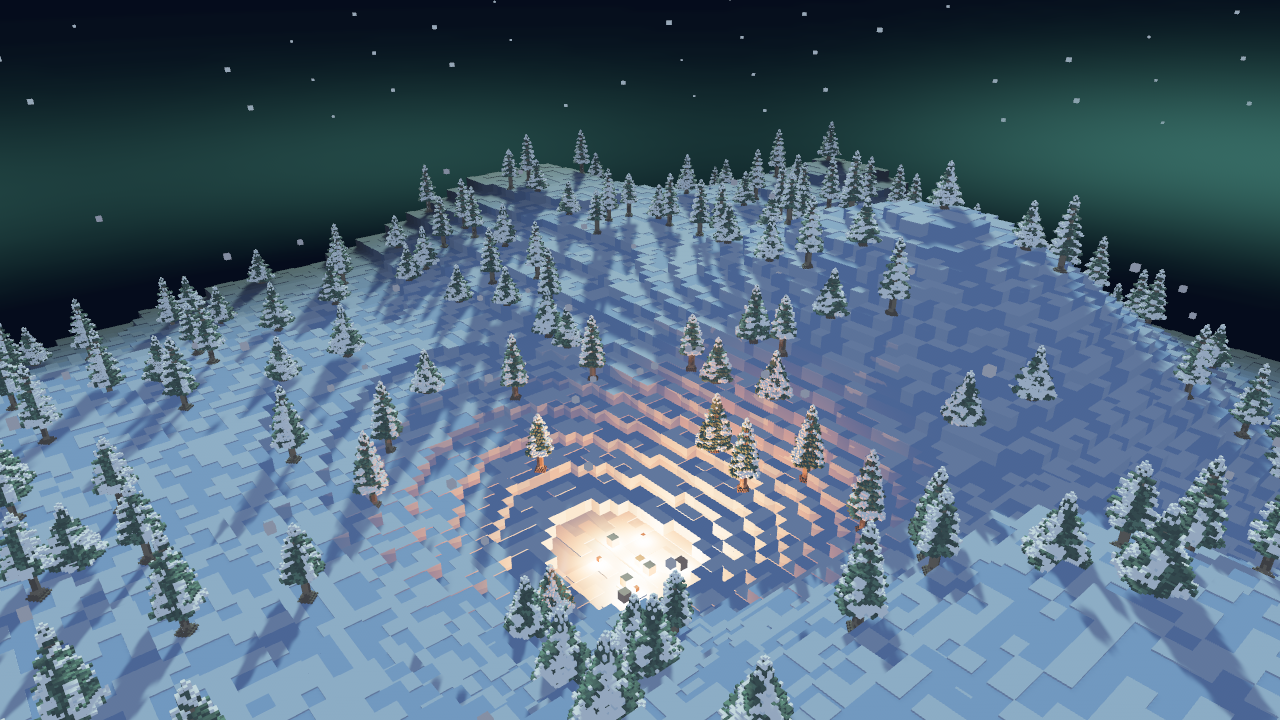
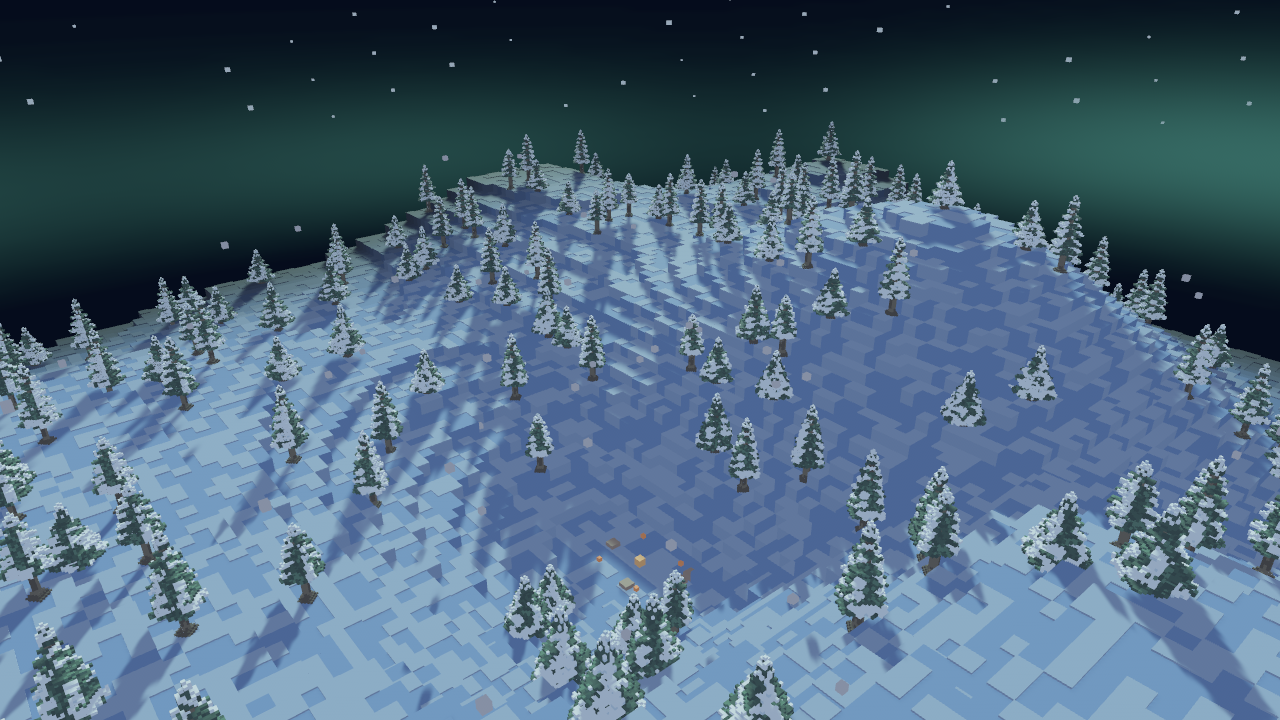
Retake AC2's controls against a paused world, and record the measurement
The committed controls were captured UNPAUSED with `--frames 160`. The dwarves
wander, so the same-build noise floor contained dwarf-sized differences and the
signal could never separate from it. Measured in a 12,000 px window at the camp
before this change:

    noise   mesh-a vs mesh-b     raw= 8,034   >=4= 5,806   >=16= 1,081
    change  control-a vs mesh-a  raw= 7,973   >=4= 6,105   >=16= 2,940

The change was SMALLER than the noise on the raw channel. AC2 asks for 10x
separation and it was structurally unreachable, because the dominant term on both
sides was a dwarf silhouette in a different place. The story had already corrected
this AC once -- from a whole-frame bar to a windowed one -- and that fixed the
wrong axis. The unfixed one was the moving subject.

RETAKEN, and the floor is now ZERO:

    window 612,570..642,610 (1,200 px), tight on one wire dwarf
      noise   cube-a vs cube-b     raw=   0   >=4=   0   >=16=   0
      noise   mesh-a vs mesh-b     raw=   0   >=4=   0   >=16=   0
      change  cube-a vs mesh-a     raw= 411   >=4= 313   >=16= 192
      change  cube-b vs mesh-b     raw= 411   >=4= 313   >=16= 192

One binary, two runs, byte-identical pixels in the window. Both change rows are
identical, which is the measurement reporting its own determinism. 192 px at >=16
is one dwarf's silhouette.

THREE CONFOUNDERS, each measured rather than assumed:

  1. the dwarves wander -- fixed by pausing the sim and `--static-world`;
[…]

diff --git a/_bmad-output/implementation-artifacts/10-5-signoff/AC2-measurement.md b/_bmad-output/implementation-artifacts/10-5-signoff/AC2-measurement.md
@@ -1,0 +1,66 @@
+# AC2 — the seam changed the frame, measured
+
+**Taken 2026-09-06 on the devpod, commit `bbb6e51`, against one paused daemon.**
+
+```
+window 612,570..642,610 (1,200 px), tight on ONE wire dwarf
+  noise   cube-a vs cube-b     raw=   0   >=4=   0   >=16=   0
+  noise   mesh-a vs mesh-b     raw=   0   >=4=   0   >=16=   0
+  change  cube-a vs mesh-a     raw= 411   >=4= 313   >=16= 192
+  change  cube-b vs mesh-b     raw= 411   >=4= 313   >=16= 192
+```
+
+**The same-build noise floor is EXACTLY ZERO** — one binary, two runs, byte-identical pixels in
+this window — so the change clears any multiple, not merely 10x. Both change rows are identical,
+which is the measurement reporting its own determinism.
+
+## The recipe changed, and the old controls could not have supported this AC
+
+The committed controls were originally captured **unpaused**, with `--frames 160`. The dwarves
+wander, so the same-build noise floor contained dwarf-sized differences and the signal could never
+separate from it. Measured before the change, in a 12,000 px window at the camp:
+
+```
+  noise   mesh-a vs mesh-b     raw= 8,034   >=4= 5,806   >=16= 1,081
+  change  control-a vs mesh-a  raw= 7,973   >=4= 6,105   >=16= 2,940
+```
+
+**The change was SMALLER than the noise on the raw channel.** The story had already corrected this
+AC once, from a whole-frame bar to a windowed one; that fixed the wrong axis. The unfixed one was
+the moving subject.
+
+## Three confounders, removed one at a time
+
+Each was measured, not assumed:
+
+1. **The dwarves wander.** Fixed by pausing the simulation (`set_speed: paused`, now bound to
+   space) and capturing with `--static-world`. `dwarf position changes=0`.
+2. **The campfire, torches and lanterns flicker on wall-clock time, which pausing the SIM does not
+   stop.** This was the entire remaining floor, and it hits a detailed mesh far harder than a flat
+   cube because it has vastly more lit silhouette:
+
+   ```
+   mesh noise, flicker on    raw= 7,709   >=4= 5,063   >=16= 84
+   mesh noise, flicker off   raw=    28   >=4=    22   >=16= 12
+   ```
+
+3. **A 12,000 px window dilutes the signal and not the floor.** Tightening onto one dwarf took the
+   floor to zero. The window was not chosen by eye: it is the bounding box of the largest blob in
+   the change itself, 192 px at x 619..634, y 576..603 — which is what a dwarf looks like.
+
+## The control is this build with the dwarf forced down the cube arm
+
+Not the pre-seam binary. A one-line edit (`if mirror_entity.kind == EntityKind::Dwarf` ->
+`if false`) so both sides share every other commit, and the measurement isolates the seam rather
+than everything that landed alongside it. The pre-seam binary also predates `--static-world` and
+so cannot capture a paused world at all.
+
+## Reproducing
+
+```
+./target/debug/simd 0                       # note the port
+python3 pause.py <port>                     # {"type":"set_speed","speed":"paused"}
+./target/debug/gui <port> --headless --subdiv 1 --frames 160 --static-world \
+    --lights-off campfire,torches,lanterns --capture mesh-dwarves-a.png
+python3 window_diff.py control-cube-dwarves-a.png mesh-dwarves-a.png "change" 612 570 642 610
+```
